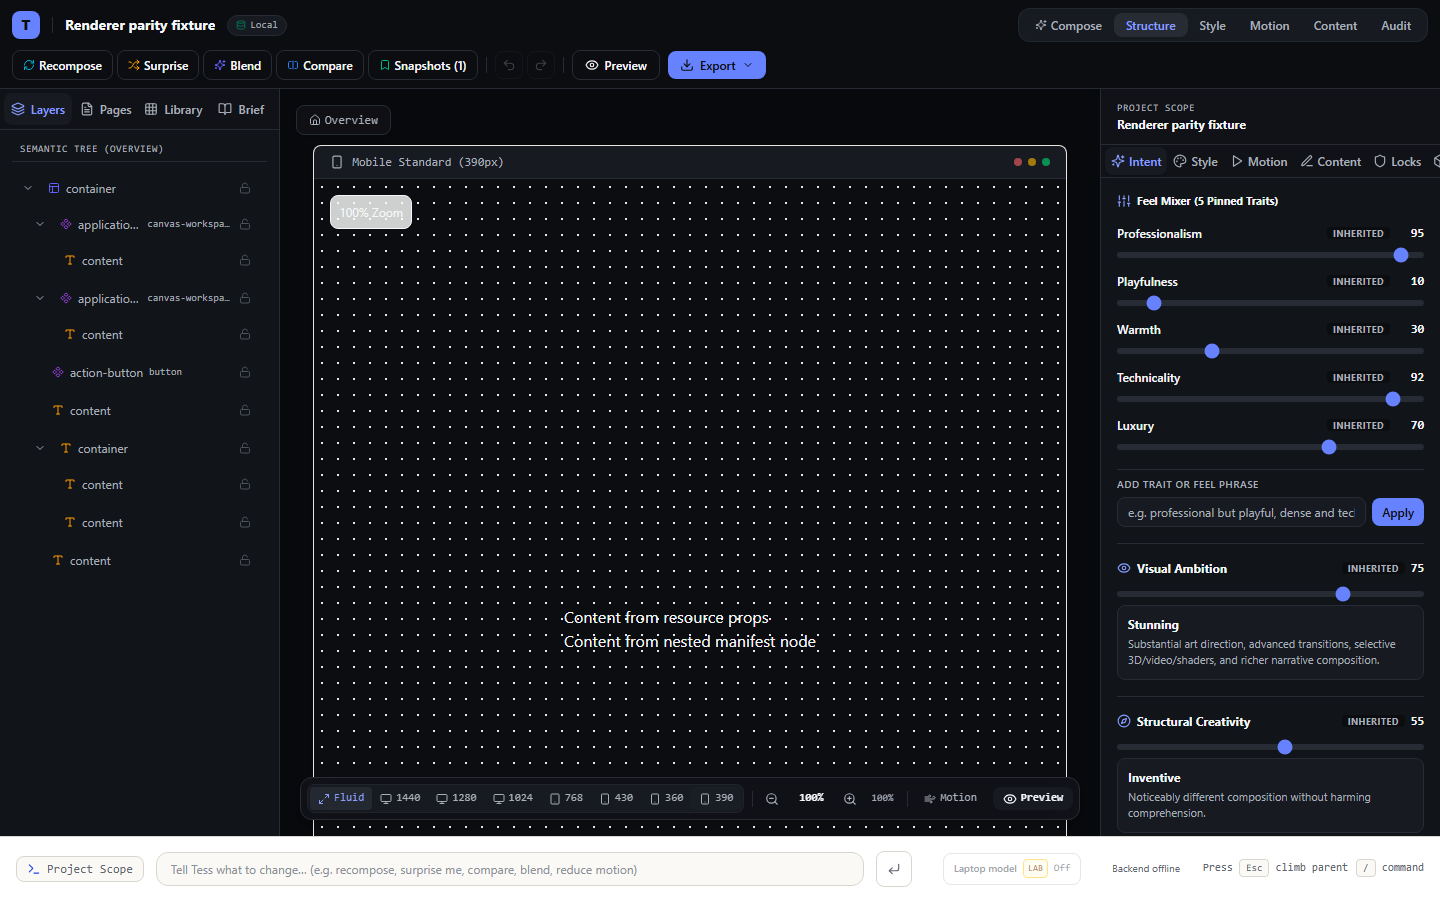
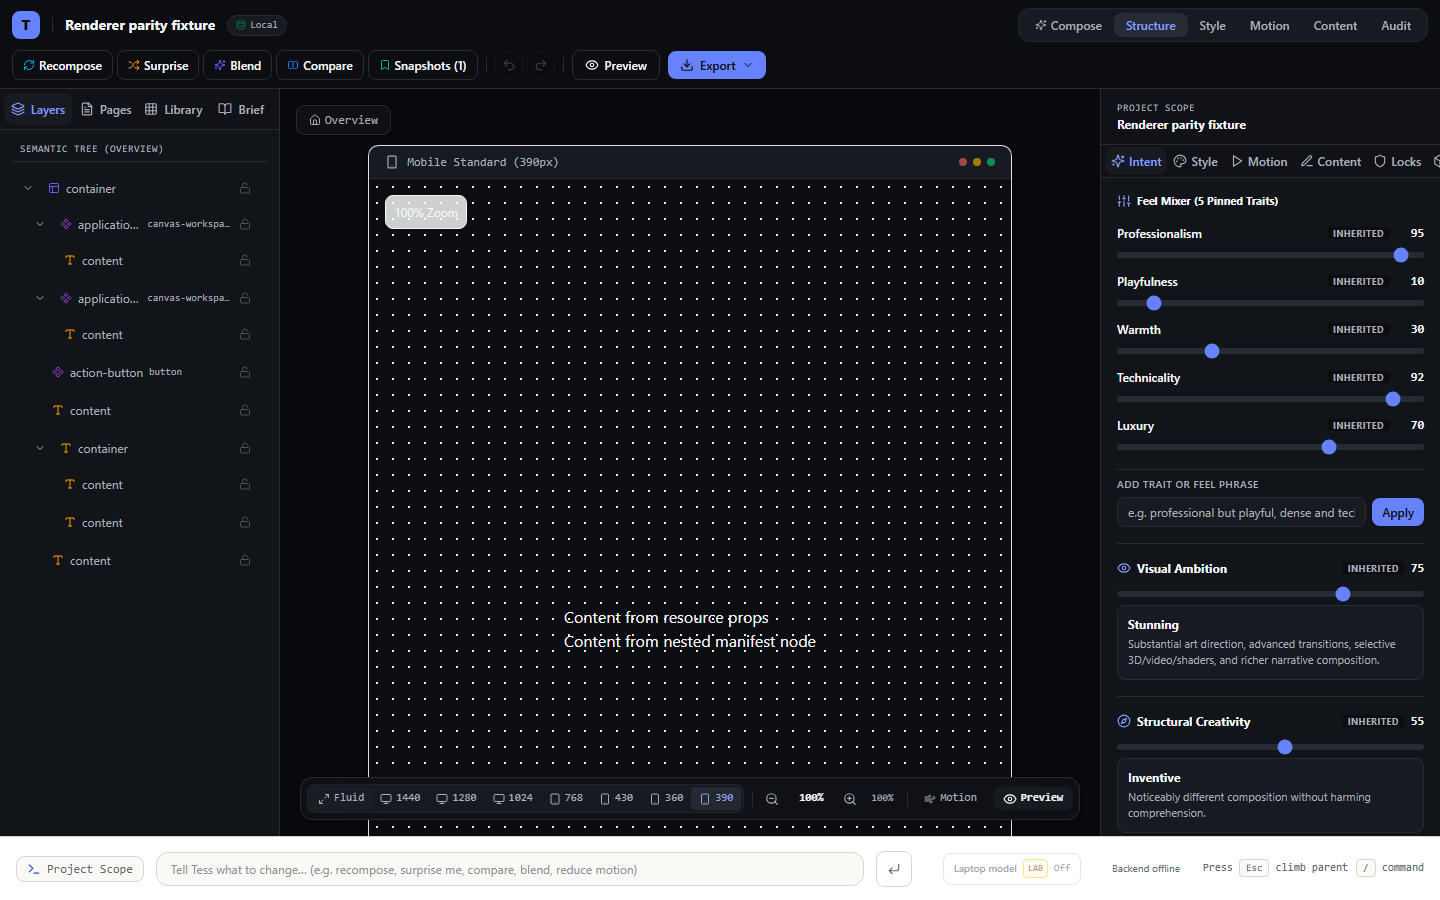
test(renderer): cover mobile parity surface

Changed region(s): [[0.2188, 0.2178, 0.3438, 0.28], [0.2188, 0.1556, 0.375, 0.1867], [0.6562, 0.1556, 0.75, 0.1867]]

diff --git a/tests/e2e/renderer-children-parity.spec.ts b/tests/e2e/renderer-children-parity.spec.ts
@@ -25,17 +25,23 @@ test('Workbench renders the shared semantic parity fixture in canvas and Preview
   }, manifest);
 
   await page.goto(`/workbench?project=${manifest.id}`);
-  const canvas = page.locator('[data-testid="workbench-canvas"]');
-  await expect(canvas.locator('[data-node-id="parity-resource-prop-children"]')).toContainText('Content from resource props');
-  await expect(canvas.locator('[data-node-id="parity-resource-prop-children"]')).toContainText('Content from nested manifest node');
-  await expect(canvas.locator('[data-node-id="parity-resource-slot-children"]')).toContainText('Content from declared resource slot');
-  await expect(canvas.locator('[data-node-id="parity-resource-slot-children"]')).toContainText('Content from nested manifest node');
-  await expect(canvas.locator('[data-tracking-id="parity-action"]')).toBeVisible();
-  await expect(canvas.locator('[data-node-id="parity-mobile-omit"]')).toContainText('Content omitted on mobile');
-  await expect(canvas).toContainText('Content from resource props');
-  await expect(canvas).toContainText('Content from nested manifest node');
+  const isMobileLayout = (page.viewportSize()?.width ?? 1440) < 1024;
+  const renderSurface = page.getByTestId(isMobileLayout ? 'mobile-workbench' : 'workbench-canvas');
+  await expect(renderSurface).toBeVisible();
+  await expect(renderSurface.locator('[data-node-id="parity-resource-prop-children"]')).toContainText('Content from resource props');
+  await expect(renderSurface.locator('[data-node-id="parity-resource-prop-children"]')).toContainText('Content from nested manifest node');
+  await expect(renderSurface.locator('[data-node-id="parity-resource-slot-children"]')).toContainText('Content from declared resource slot');
+  await expect(renderSurface.locator('[data-node-id="parity-resource-slot-children"]')).toContainText('Content from nested manifest node');
+  await expect(renderSurface.locator('[data-tracking-id="parity-action"]')).toBeVisible();
+  if (isMobileLayout) {
+    await expect(renderSurface.locator('[data-node-id="parity-mobile-omit"]')).toHaveCount(0);
+  } else {
+    await expect(renderSurface.locator('[data-node-id="parity-mobile-omit"]')).toContainText('Content omitted on mobile');
+  }
+  await expect(renderSurface).toContainText('Content from resource props');
+  await expect(renderSurface).toContainText('Content from nested manifest node');
 
-  const screenshot = path.resolve(process.cwd(), 'audit/evidence/step-07/after/manifest-and-prop-children.png');
+  const screenshot = path.resolve(process.cwd(), `audit/evidence/step-07/after/${isMobileLayout ? 'workbench-mobile-shell-390' : 'manifest-and-prop-children'}.png`);
   mkdirSync(path.dirname(screenshot), { recursive: true });
   await page.screenshot({ path: screenshot, fullPage: true });
 
@@ -44,14 +50,19 @@ test('Workbench renders the shared semantic parity fixture in canvas and Preview
   await expect(preview).toContainText('Content from resource props');
   await expect(preview).toContainText('Content from declared resource slot');
   await expect(preview).toContainText('Content from nested manifest node');
-  const previewScreenshot = path.resolve(process.cwd(), 'audit/evidence/step-07/after/preview-modal-children.png');
+  const previewScreenshot = path.resolve(process.cwd(), `audit/evidence/step-07/after/${isMobileLayout ? 'preview-modal-children-mobile-390' : 'preview-modal-children'}.png`);
   await page.screenshot({ path: previewScreenshot, fullPage: true });
 
   await page.getByRole('button', { name: 'Exit Preview' }).click();
-  await page.getByTestId('canvas-toolbar').getByRole('button', { name: '390' }).click();
-  await expect(canvas.locator('[data-node-id="parity-mobile-omit"]')).toHaveCount(0);
-  await expect(canvas.locator('[data-node-id="parity-resource-prop-children"]')).toBeVisible();
-  const mobileScreenshot = path.resolve(process.cwd(), 'audit/evidence/step-07/after/workbench-responsive-390.png');
+  if (!isMobileLayout) await page.getByTestId('canvas-toolbar').getByRole('button', { name: '390' }).click();
+  const responsiveSurface = page.getByTestId(isMobileLayout ? 'mobile-workbench' : 'workbench-canvas');
+  await expect(responsiveSurface.locator('[data-node-id="parity-mobile-omit"]')).toHaveCount(0);
+  await expect(responsiveSurface.locator('[data-node-id="parity-resource-prop-children"]')).toBeVisible();
+  if (isMobileLayout) {
+    await expect(responsiveSurface.locator('[data-node-id="parity-mobile-stack"]')).toHaveClass(/flex-col/);
+    await expect(responsiveSurface.locator('[data-node-id="parity-mobile-collapse"]')).toHaveClass(/max-h-48/);
+  }
+  const mobileScreenshot = path.resolve(process.cwd(), `audit/evidence/step-07/after/${isMobileLayout ? 'workbench-mobile-responsive-390' : 'workbench-responsive-390'}.png`);
   await page.screenshot({ path: mobileScreenshot, fullPage: true });
 
   expect(consoleErrors).toEqual([]);
@@ -78,11 +89,14 @@ test('Workbench preserves declared resource slot content alongside nested manife
     localStorage.setItem('tessellate_active_project', json);
   }, manifest);
   await page.goto(`/workbench?project=${manifest.id}`);
-  const canvas = page.locator('[data-testid="workbench-canvas"] [data-node-id="parity-resource-slot-children"]');
+  const isMobileLayout = (page.viewportSize()?.width ?? 1440) < 1024;
+  const renderSurface = page.getByTestId(isMobileLayout ? 'mobile-workbench' : 'workbench-canvas');
+  await expect(renderSurface).toBeVisible();
+  const canvas = renderSurface.locator('[data-node-id="parity-resource-slot-children"]');
   await expect(canvas).toBeAttached();
   await expect(canvas).toContainText('Content from declared resource slot');
   await expect(canvas).toContainText('Content from nested manifest node');
-  const after = path.resolve(process.cwd(), 'audit/evidence/step-07/after/resource-slot-and-nested-children.png');
+  const after = path.resolve(process.cwd(), `audit/evidence/step-07/after/${isMobileLayout ? 'resource-slot-and-nested-children-mobile-390' : 'resource-slot-and-nested-children'}.png`);
   mkdirSync(path.dirname(after), { recursive: true });
   await page.screenshot({ path: after, fullPage: true });
 
@@ -90,7 +104,7 @@ test('Workbench preserves declared resource slot content alongside nested manife
   const preview = page.getByTestId('preview-modal');
   await expect(preview).toContainText('Content from declared resource slot');
   await expect(preview).toContainText('Content from nested manifest node');
-  const previewScreenshot = path.resolve(process.cwd(), 'audit/evidence/step-07/after/preview-modal-slot-children.png');
+  const previewScreenshot = path.resolve(process.cwd(), `audit/evidence/step-07/after/${isMobileLayout ? 'preview-modal-slot-children-mobile-390' : 'preview-modal-slot-children'}.png`);
   await page.screenshot({ path: previewScreenshot, fullPage: true });
   expect(consoleErrors).toEqual([]);
   expect(failedRequests).toEqual([]);

diff --git a/quality/STEP_07_EVIDENCE.md b/quality/STEP_07_EVIDENCE.md
@@ -9,10 +9,10 @@ the deployed review build is re-audited.
 | Finding | Prior behavior | Corrected behavior | Regression evidence |
 |---|---|---|---|
 | AUD-071 | Unknown preview IDs displayed the Button resource and never reached the missing-resource error branch. | The preview renders an accessible unavailable state, sends `TESSELLATE_PREVIEW_ERROR`, and does not send `TESSELLATE_PREVIEW_READY`. | `tests/e2e/preview-unknown-resource-regression.spec.ts`; [before](../audit/evidence/step-07/before/unknown-resource-button-fallback.png), [after](../audit/evidence/step-07/after/unknown-resource-error-state.png). |
-| AUD-072 | In Workbench, a Gold resource's `props.children` replaced its nested `ProjectNode` children. | Canvas and Workbench Preview preserve both child sources. | `packages/renderer/src/__tests__/gold-registry.test.tsx`, `tests/e2e/renderer-children-parity.spec.ts`; [before](../audit/evidence/step-07/before/manifest-prop-child-only.png), [canvas](../audit/evidence/step-07/after/manifest-and-prop-children.png), [Preview](../audit/evidence/step-07/after/preview-modal-children.png). |
+| AUD-072 | In Workbench, a Gold resource's `props.children` replaced its nested `ProjectNode` children. | Canvas and Workbench Preview preserve both child sources. | `packages/renderer/src/__tests__/gold-registry.test.tsx`, `tests/e2e/renderer-children-parity.spec.ts`; [before](../audit/evidence/step-07/before/manifest-prop-child-only.png), [canvas](../audit/evidence/step-07/after/manifest-and-prop-children.png), [desktop Preview](../audit/evidence/step-07/after/preview-modal-children.png), [mobile shell](../audit/evidence/step-07/after/workbench-mobile-shell-390.png). |
 | AUD-073 | Exported JSX emitted `props.children` or nested node JSX, dropping one source. | Exported JSX emits both sources; a clean generated project displays both. | `packages/exporter/src/__tests__/standalone-export-fidelity.test.ts`; [standalone result](../audit/evidence/step-07/after/standalone-export-children.png). The pre-fix source-generation assertion failed because the prop-child text was omitted. |
 | AUD-074 | Workbench allowed an undeclared variant to reach a component, which silently selected its default style; export also accepted it. | Workbench shows a recoverable diagnostic without rendering that component; export rejects it and lists the declared variants. | `packages/renderer/src/__tests__/gold-registry.test.tsx`, `packages/exporter/src/__tests__/standalone-export-fidelity.test.ts`, `tests/e2e/unsupported-resource-variant-regression.spec.ts`; [before](../audit/evidence/step-07/before/unsupported-variant-fell-through.png), [after](../audit/evidence/step-07/after/unsupported-variant-diagnostic.png). |
-| AUD-075 | Workbench ignored a resource's declared `slots.children` when the node also had nested manifest children. | Canvas and Preview show both slot content and nested nodes, with resource child-prop eligibility enforced. | `packages/renderer/src/__tests__/gold-registry.test.tsx`, `tests/e2e/renderer-children-parity.spec.ts`; [before](../audit/evidence/step-07/before/resource-slot-child-lost.png), [canvas](../audit/evidence/step-07/after/resource-slot-and-nested-children.png), [Preview](../audit/evidence/step-07/after/preview-modal-slot-children.png). |
+| AUD-075 | Workbench ignored a resource's declared `slots.children` when the node also had nested manifest children. | Canvas and Preview show both slot content and nested nodes, with resource child-prop eligibility enforced. | `packages/renderer/src/__tests__/gold-registry.test.tsx`, `tests/e2e/renderer-children-parity.spec.ts`; [before](../audit/evidence/step-07/before/resource-slot-child-lost.png), [desktop canvas](../audit/evidence/step-07/after/resource-slot-and-nested-children.png), [mobile shell](../audit/evidence/step-07/after/resource-slot-and-nested-children-mobile-390.png), [Preview](../audit/evidence/step-07/after/preview-modal-slot-children.png). |
 | AUD-076 | Standalone export ignored node-level mobile `omit`, `stack`, and `collapse` strategies. | Generated React applies the strategies at 390 px; Workbench and exported browser use the same shared fixture. | `packages/testing/src/renderer-parity-fixture.ts`, `packages/renderer/src/__tests__/renderer-parity.test.tsx`, `packages/exporter/src/__tests__/standalone-export-fidelity.test.ts`, `tests/e2e/renderer-children-parity.spec.ts`; [before](../audit/evidence/step-07/before/export-responsive-override-visible.png), [export after](../audit/evidence/step-07/after/standalone-export-responsive-390.png), [Workbench after](../audit/evidence/step-07/after/workbench-responsive-390.png). |
 | AUD-077 | Standalone export filtered standard `data-*` and `aria-*` resource props that Workbench preserves. | Exported resources retain these standard attributes while other undeclared props remain filtered. | Shared Button fixture and clean standalone install/build/browser regression in `packages/exporter/src/__tests__/standalone-export-fidelity.test.ts`; [before](../audit/evidence/step-07/before/export-data-attribute-dropped.png), [after](../audit/evidence/step-07/after/export-data-attribute-preserved.png). |
 
@@ -28,7 +28,8 @@ These failures were silent: no console errors or failed network requests.
 - `pnpm typecheck` passed across the workspace.
 - `pnpm lint` passed with zero errors and 51 existing warnings.
 - Renderer/exporter Vitest suites passed 81/81 across seven files, including all 324 resource variant declarations and the clean standalone install/build/browser test. The exported app ran in Chromium with zero console errors and failed requests.
-- Focused Workbench/Preview Playwright checks passed 3/3 for shared canvas/Preview/mobile parity, declared-slot content, and unsupported variants. The earlier PreviewApp regression also passed.
+- Focused Workbench/Preview Playwright checks passed 4/4 across desktop and mobile shells, including shared node parity, declared-slot content, and unsupported variants. Mobile checks now exercise the actual single-column Workbench preview surface rather than assuming the desktop canvas exists at phone widths; screenshots are kept separate by viewport.
+- Full `pnpm test:e2e` passed: 79 public desktop/mobile checks, 51 tests skipped by configured project scope, 23/23 Sites Worker checks (including all 324 resources across certified viewports), and 1/1 PreviewApp unknown-resource regression. The flagship employee-experience flow passed in Chromium.
 - `pnpm install --frozen-lockfile` had already passed on this checkout; `pnpm typecheck` passed across the workspace. `pnpm lint` passed with zero errors and 51 existing warnings.
 - `pnpm audit:all` passed on the current source: all 16 behavioral release criteria, 717-page production build, bundle budgets, catalogue licence/provenance, and security/secret checks. The build emits existing large-chunk warnings; bundle budgets pass.
 - AUD-077 regression proof: the clean standalone install/build/browser assertion passed after the exporter fix; before the fix, the same test failed because the data attribute locator was absent. It also verified zero console errors and failed requests. Renderer parity unit tests passed 2/2; Workbench parity browser checks passed 3/3.
